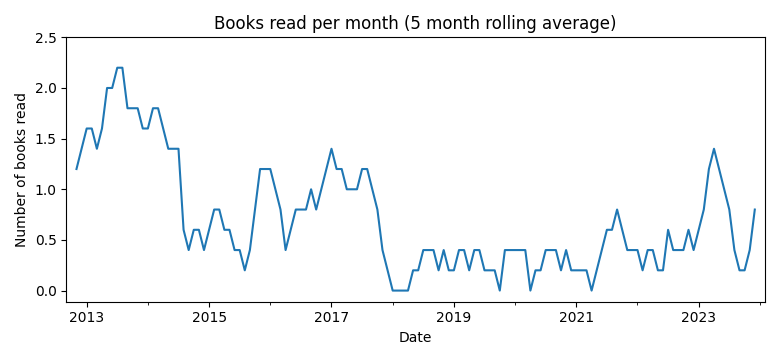
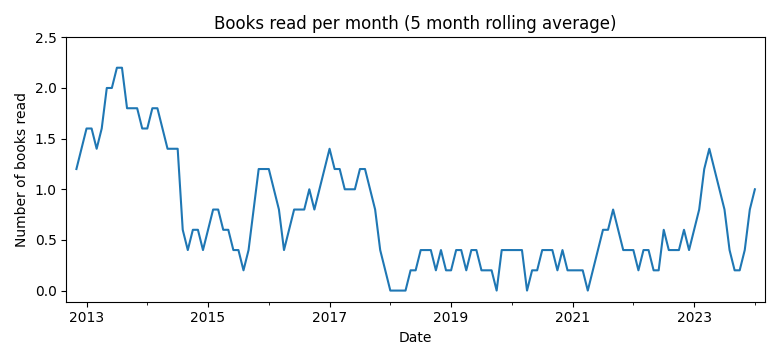
Endymion

diff --git a/README.md b/README.md
@@ -6,13 +6,16 @@ The most significant events impacting the number of books I read are
 * The birth of my daughers in 2018/01 and 2019/08
 
 ### Statistics
-Total number of books read: 100  
-Books per month: 0.72 (2012/9 to 2024/2)
+Total number of books read: 101  
+Books per month: 0.73 (2012/9 to 2024/3)
 
 ![Books recorded by year](book_recorded.png)
 ![Books read per month](book_read.png)
 
 ### List of books
+*Endymion*, Dan Simmons  
+Finished: 2024.03.27
+
 *The Fall of Hyperion*, Dan Simmons  
 Finished: 2024.02.23
 
